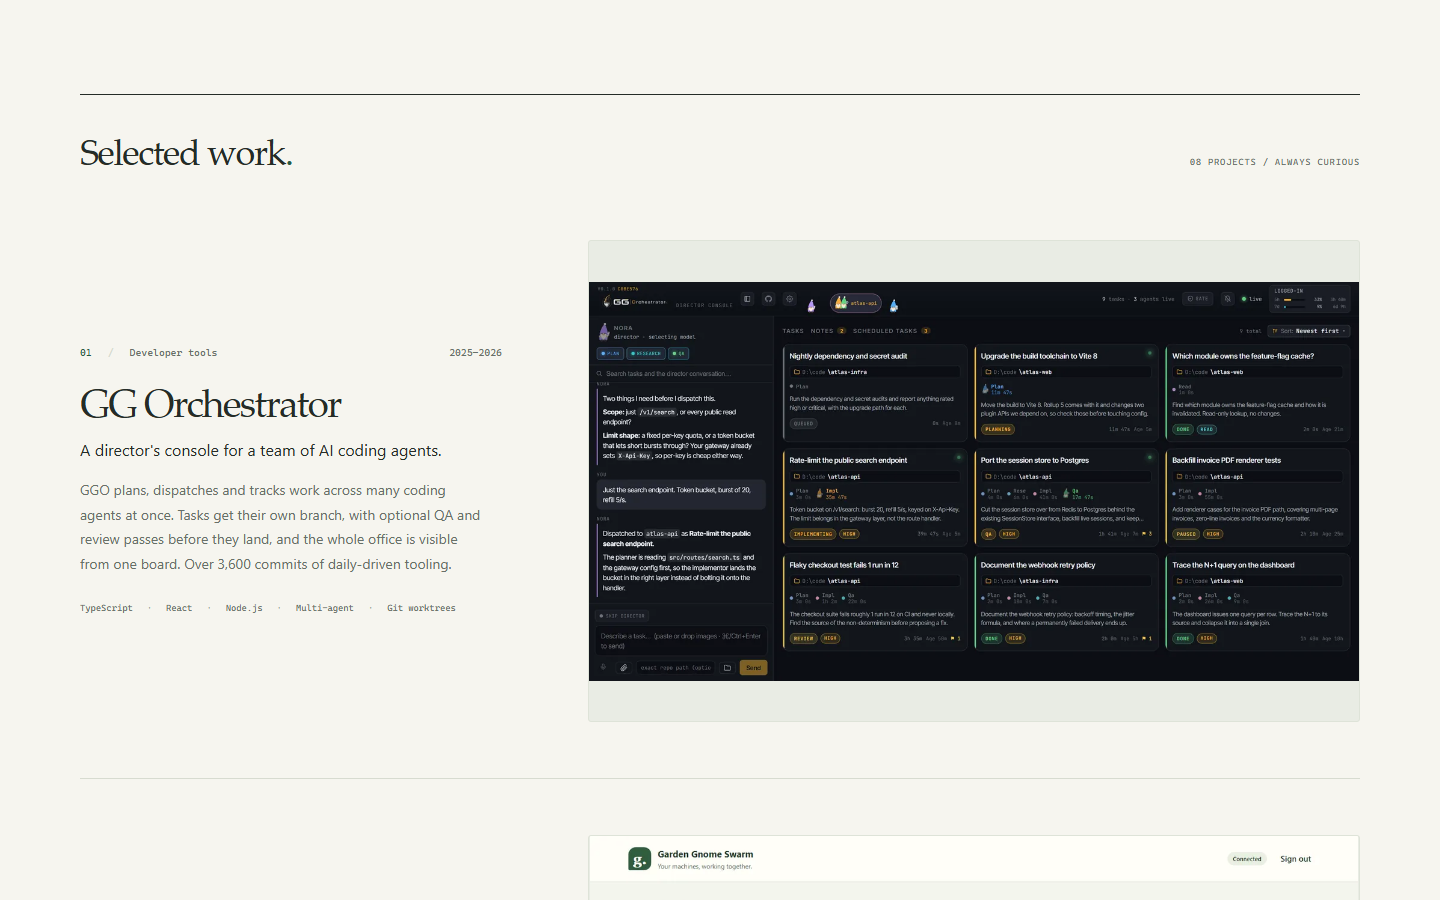
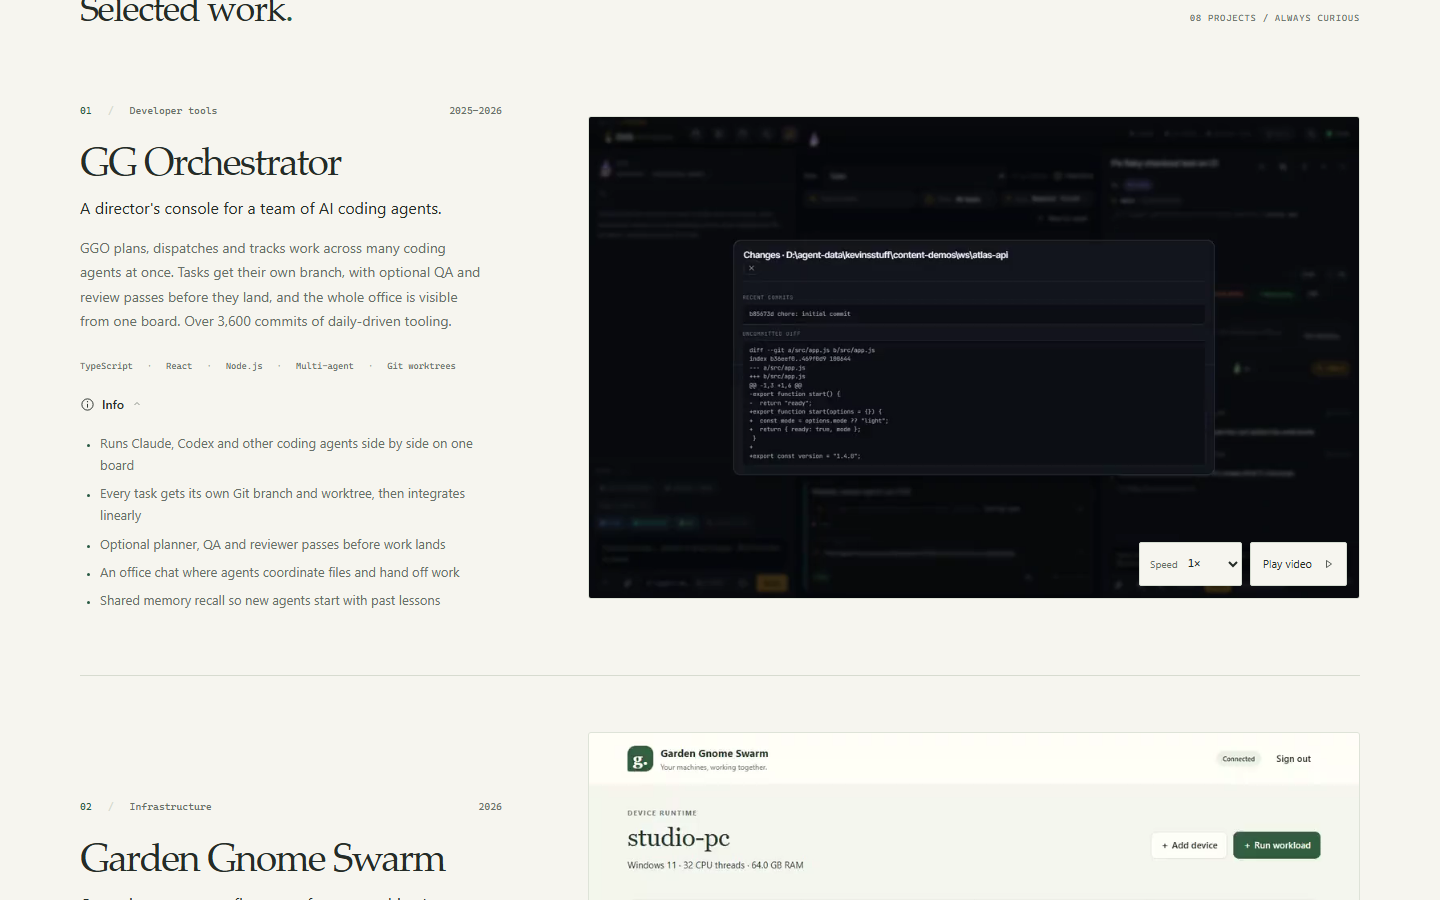
docs: describe the clip demos and close the content task
The README now describes the multi-screen clips, the speed control and
the Info list, with a fresh project screenshot and the measured page
weight. The backlog records the live verification.

diff --git a/README.md b/README.md
@@ -4,9 +4,9 @@ Kevin's portfolio: a short, quiet tour of the things he builds — an AI agent o
 
 ![The landing page: headline on the left, an animated map of the eight projects on the right](docs/screenshot-desktop.png)
 
-Each project gets a tagline, a few sentences, its tech tags and one short demo: a screenshot or a muted looping clip.
+Each project gets a tagline, a few sentences, its tech tags, an Info list of key features and one short demo: a fast, muted, looping clip that clicks through several screens, with 0.5× and 0.25× speeds for a closer look.
 
-![A project entry: GG Orchestrator with its description, tags and board screenshot](docs/screenshot-projects.png)
+![A project entry: GG Orchestrator with its description, tags, open Info list and demo clip](docs/screenshot-projects.png)
 
 <img src="docs/screenshot-mobile.png" alt="The landing page on a phone" width="320">
 
@@ -14,7 +14,7 @@ Each project gets a tagline, a few sentences, its tech tags and one short demo: 
 
 - **No framework, no runtime dependencies.** A Node 22 build script (`scripts/build.mjs`) renders `src/` plus the JSON content into static HTML, one hashed stylesheet and one small script in `dist/`.
 - **Content is data.** Projects live in `content/projects.json`, the name, about and contact copy in `content/site.json`, demo media in `public/media/<slug>/`. Editing the site's words never touches code.
-- **Small on purpose.** The whole first visit is about 1.1 MB, almost all of it demo media (WebP screenshots and one short MP4); the HTML, CSS and JS together are under 40 KB. Media below the fold loads lazily.
+- **Small on purpose.** The first view is under 100 KB: HTML, CSS, JS and WebP posters. Each clip (0.3–1.4 MB, about 4.3 MB for all eight) loads only when its card scrolls into view.
 
 ## Develop
 

diff --git a/BACKLOG.md b/BACKLOG.md
@@ -11,9 +11,12 @@
 
 ## In progress
 
-- **Portfolio content, demo media and final live verification of kevinsstuff.com** (Quill Pebblecap, 2026-11-03; content in 6f2fdf9 + 69ba691).
+_(none: claim from Ready)_
 
 ## Done (newest first; keep the last 20)
+
+- 2026-11-03 **Portfolio content, multi-screen demo clips and live verification of kevinsstuff.com** (22849b4, Quill Pebblecap): [deploy 41734686809](https://github.com/Fearce/kevinsstuff/actions/runs/41734686809) passed.
+  - Checked live on apex and www (www redirects): 8 clips play, 0.5×/0.25× speeds apply, Info lists show and all 4 outbound links return 200. First view about 80 KB.
 
 - 2026-11-03 **guildpolls.kevinsstuff.com: password-gated guild polls with per-IP approval voting** (2cec91f, Ballot Burrow): live on 4f2a764; deploys [41720358215](https://github.com/Fearce/kevinsstuff/actions/runs/41720358215) and [41722195472](https://github.com/Fearce/kevinsstuff/actions/runs/41722195472) passed.
   - Live checks passed: cap, duplicates, XSS, vote, unvote and reset. aws-01 and the desktop counted as separate voters; spoofed headers were ignored; votes survived a restart and a redeploy. [README](apps/guildpolls/README.md).
